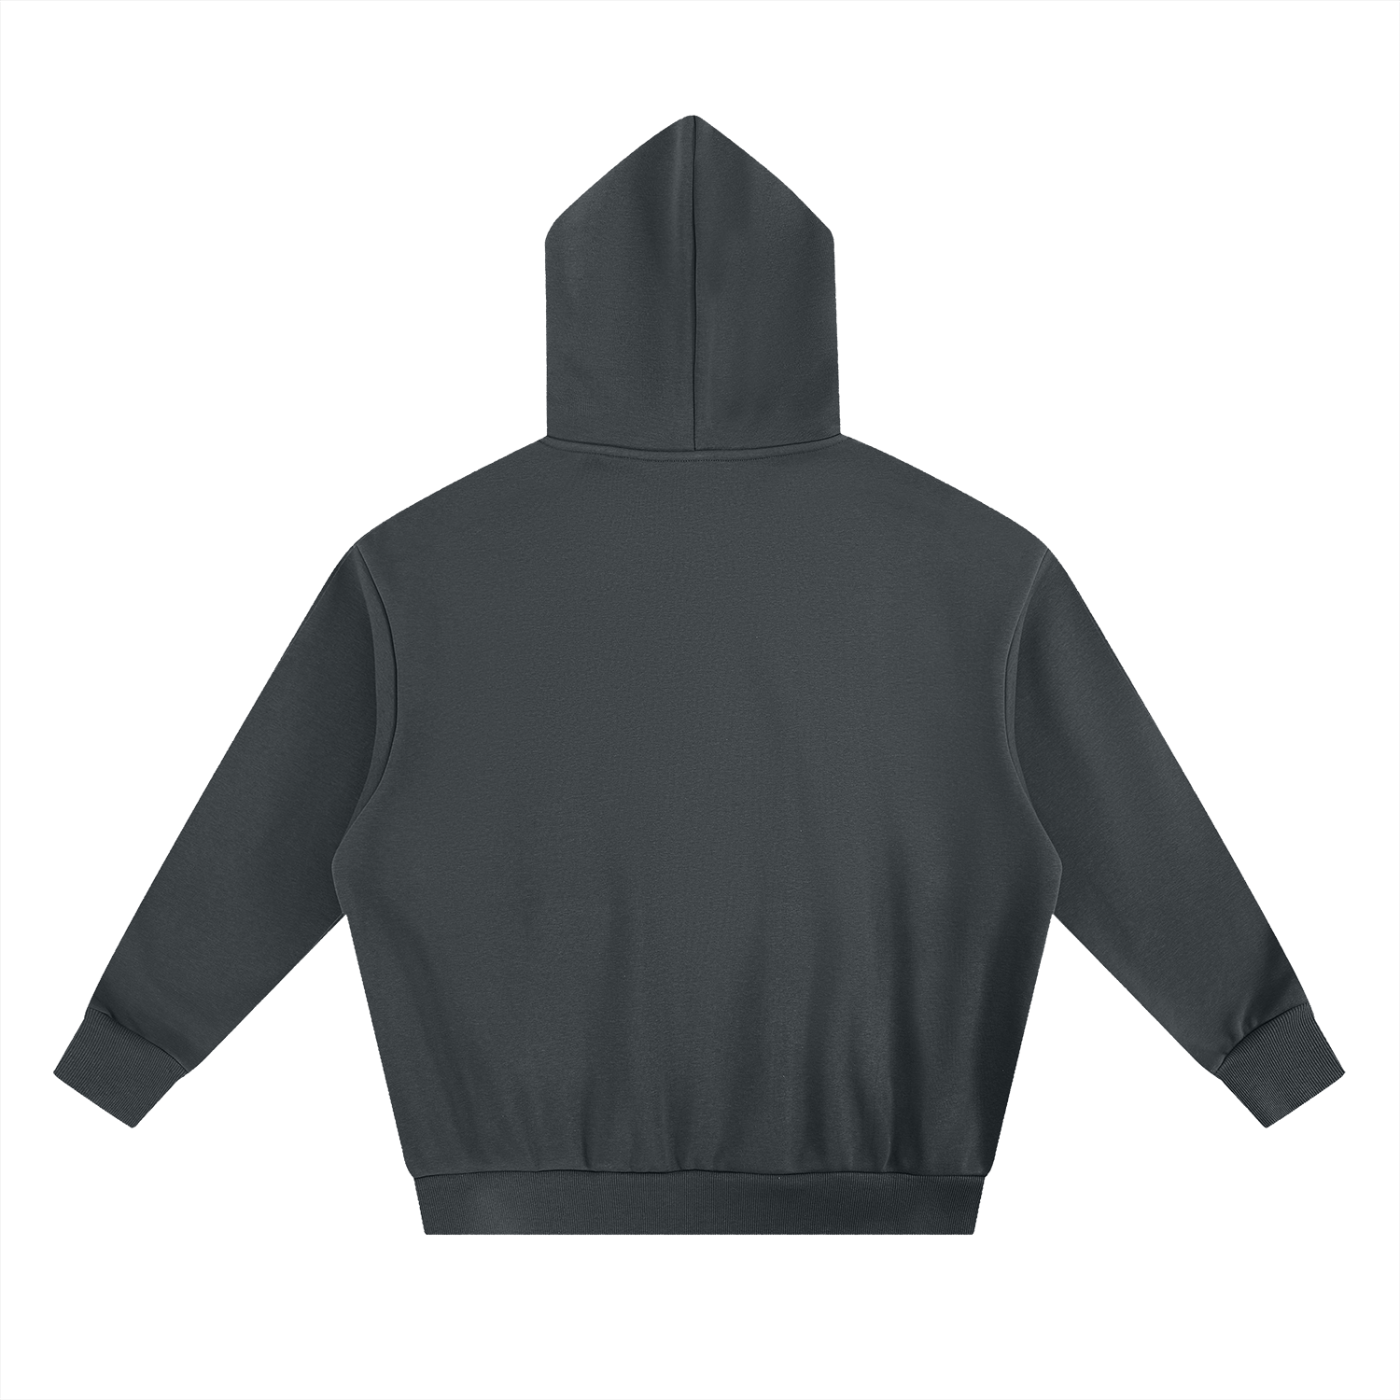
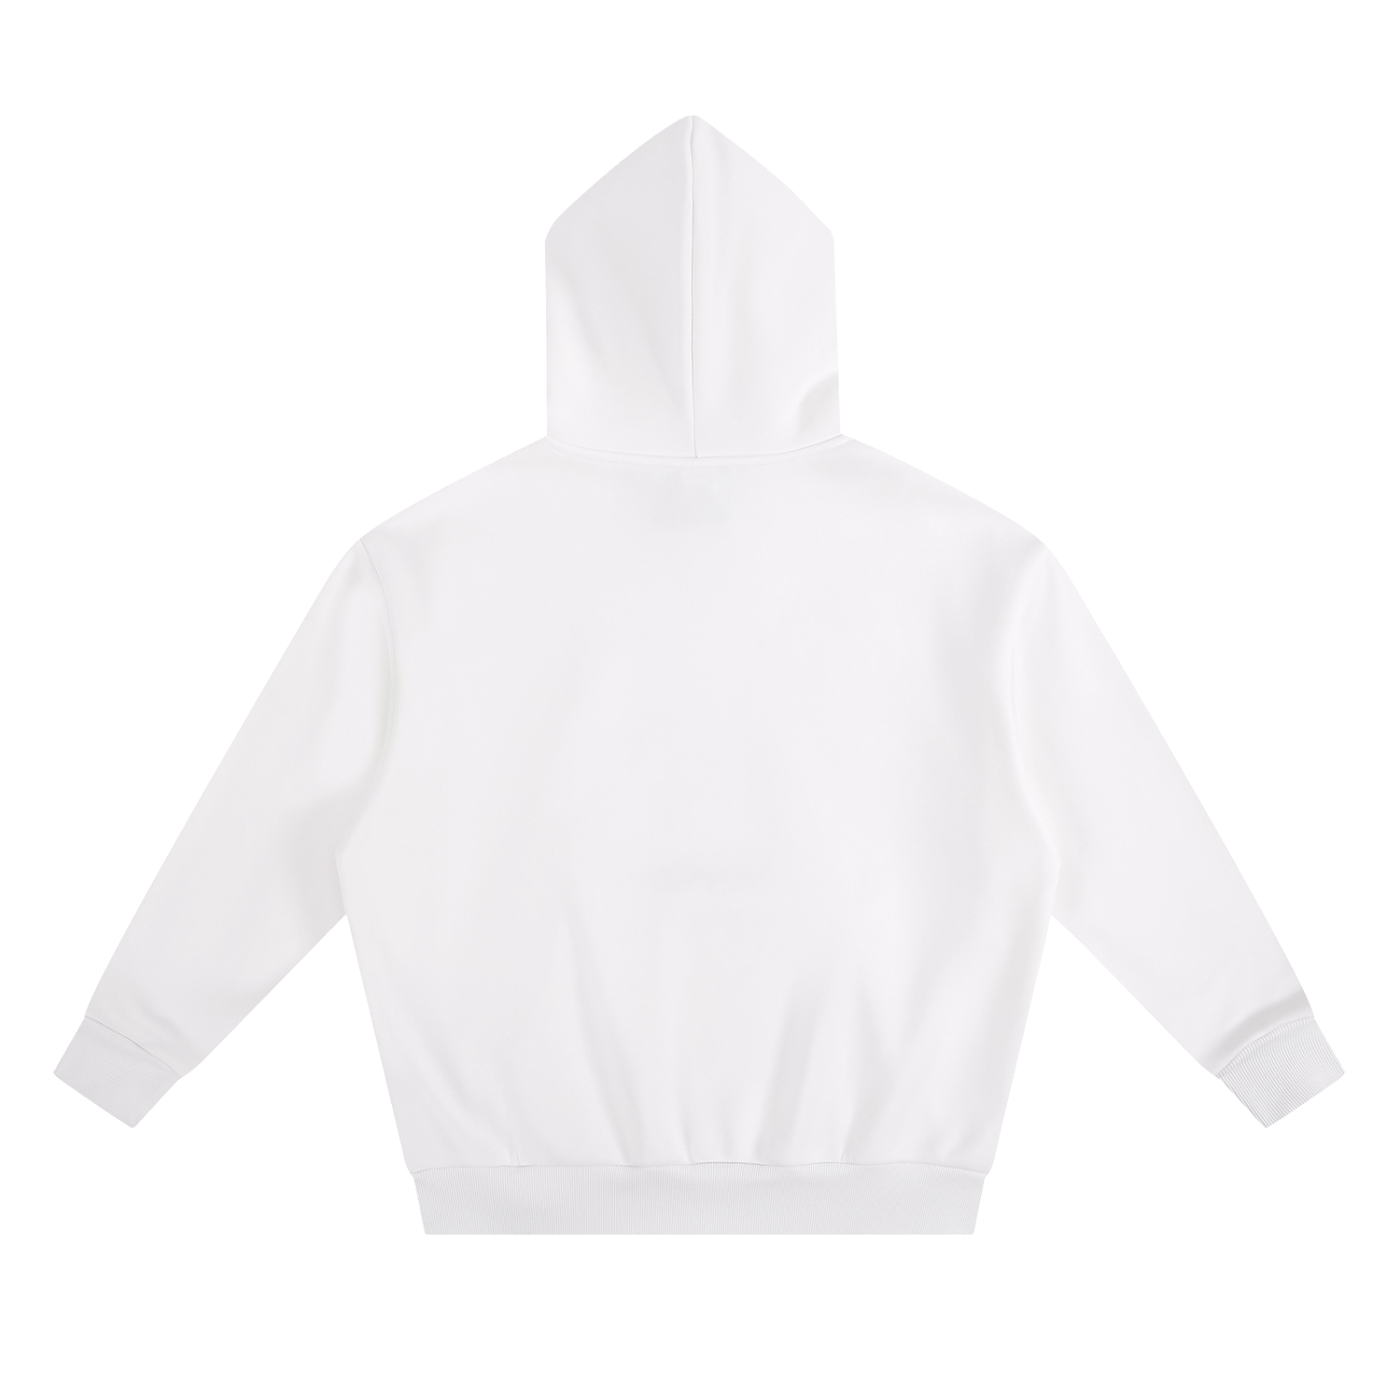
added new colors to plain hoodie

diff --git a/netlify/functions/create-checkout-session.js b/netlify/functions/create-checkout-session.js
@@ -22,6 +22,28 @@ function sanitizeMetadataValue(value, fallback) {
   return normalized.slice(0, 500);
 }
 
+function buildMetadataChunkMap(prefix, rawValue, maxChunks = 8, chunkSize = 500) {
+  const source = String(rawValue || "");
+  if (!source) return {};
+
+  const metadata = {};
+  let index = 0;
+  let chunkNumber = 1;
+
+  while (index < source.length && chunkNumber <= maxChunks) {
+    const chunk = source.slice(index, index + chunkSize);
+    metadata[`${prefix}_${chunkNumber}`] = chunk;
+    index += chunkSize;
+    chunkNumber += 1;
+  }
+
+  if (index < source.length) {
+    metadata[`${prefix}_truncated`] = "true";
+  }
+
+  return metadata;
+}
+
 exports.handler = async function handler(event) {
   if (event.httpMethod !== "POST") {
     return {
@@ -53,7 +75,9 @@ exports.handler = async function handler(event) {
         productId: sanitizeVariant(item.productId, "unknown-product"),
         productName: sanitizeVariant(item.name, "Safire Vintage Item"),
         selectedSize: sanitizeVariant(item.size, "default"),
-        selectedColor: sanitizeVariant(item.color, "default")
+        selectedColor: sanitizeVariant(item.color, "default"),
+        selectedSizeLabel: sanitizeVariant(item.sizeLabel, sanitizeVariant(item.size, "default").toUpperCase()),
+        selectedColorLabel: sanitizeVariant(item.colorLabel, sanitizeVariant(item.color, "default"))
       }));
 
     if (normalizedItems.length === 0) {
@@ -65,18 +89,21 @@ exports.handler = async function handler(event) {
     }
 
     const firstItem = normalizedItems[0];
-    const variantMap = sanitizeMetadataValue(
-      JSON.stringify(
-        normalizedItems.map((item) => ({
-          id: item.productId,
-          n: item.productName,
-          q: item.quantity,
-          s: item.selectedSize,
-          c: item.selectedColor
-        }))
-      ),
-      "[]"
-    );
+    const compactItems = normalizedItems.map((item) => ({
+      id: item.productId,
+      n: item.productName,
+      q: item.quantity,
+      s: item.selectedSizeLabel,
+      c: item.selectedColorLabel
+    }));
+
+    const variantMap = sanitizeMetadataValue(JSON.stringify(compactItems), "[]");
+    const allItemsJson = JSON.stringify(compactItems);
+    const itemNames = sanitizeMetadataValue(normalizedItems.map((item) => item.productName).join(" | "), "");
+    const itemSizes = sanitizeMetadataValue(normalizedItems.map((item) => item.selectedSizeLabel).join(" | "), "");
+    const itemColors = sanitizeMetadataValue(normalizedItems.map((item) => item.selectedColorLabel).join(" | "), "");
+
+    const itemsJsonMetadataChunks = buildMetadataChunkMap("items_json", allItemsJson);
 
     const stripeLineItems = await Promise.all(
       normalizedItems.map(async (item) => {
@@ -102,30 +129,39 @@ exports.handler = async function handler(event) {
             unit_amount: unitAmount,
             product_data: {
               name: item.productName || productName,
-              description: `Size: ${item.selectedSize.toUpperCase()}\nColor: ${item.selectedColor}`
+              description: `Size: ${item.selectedSizeLabel}\nColor: ${item.selectedColorLabel}`,
+              metadata: {
+                product_id: item.productId,
+                item_name: item.productName,
+                size: item.selectedSizeLabel,
+                color: item.selectedColorLabel,
+                color_key: item.selectedColor
+              }
             }
           }
         };
       })
     );
 
+    const sharedMetadata = {
+      product_name: firstItem.productName,
+      size: firstItem.selectedSizeLabel,
+      color: firstItem.selectedColorLabel,
+      variant_map: variantMap,
+      item_names: itemNames,
+      item_sizes: itemSizes,
+      item_colors: itemColors,
+      items_count: String(normalizedItems.length),
+      ...itemsJsonMetadataChunks
+    };
+
     const session = await stripe.checkout.sessions.create({
       mode: "payment",
       payment_method_types: ["card"],
       line_items: stripeLineItems,
-      metadata: {
-        product_name: firstItem.productName,
-        size: firstItem.selectedSize,
-        color: firstItem.selectedColor,
-        variant_map: variantMap
-      },
+      metadata: sharedMetadata,
       payment_intent_data: {
-        metadata: {
-          product_name: firstItem.productName,
-          size: firstItem.selectedSize,
-          color: firstItem.selectedColor,
-          variant_map: variantMap
-        }
+        metadata: sharedMetadata
       },
       shipping_address_collection: {
         allowed_countries: ["US"]

diff --git a/index.html b/index.html
@@ -2939,7 +2939,7 @@ const productsData = [
         stock: { S: 10, M: 10, L: 10, XL: 10 },
         colors: [
             {
-                name: "Pitch Black",
+                name: "Black",
                 hex: "#0A0A0A",
                 images: {
                     front: "images/pitchblackfrontplainhoodie.png",
@@ -2947,11 +2947,43 @@ const productsData = [
                 }
             },
             {
-                name: "Black",
-                hex: "#2B2B2B",
+                name: "Grey",
+                hex: "#7C7C7C",
                 images: {
                     front: "images/plainhoodieblackfront.png",
                     back: "images/plainhoodieblackback.png"
+                }
+            },
+            {
+                name: "White",
+                hex: "#F2F2F2",
+                images: {
+                    front: "images/plainhoodiewhitefront.png",
+                    back: "images/plainhoodiewhiteback.png"
+                }
+            },
+            {
+                name: "Oat White",
+                hex: "#D9D4C7",
+                images: {
+                    front: "images/plainhoodieoatwhitefront.png",
+                    back: "images/plainhoodieoatwhiteback.png"
+                }
+            },
+            {
+                name: "Flower Gray",
+                hex: "#B7B7B7",
+                images: {
+                    front: "images/plainhoodieflowergreyfront.png",
+                    back: "images/plainhoodieflowergreyback.png"
+                }
+            },
+            {
+                name: "Light Apricot",
+                hex: "#F4E7CF",
+                images: {
+                    front: "images/plainhoodielightapricotfront.png",
+                    back: "images/plainhoodielightapricotback.png"
                 }
             }
         ]
@@ -3041,18 +3073,9 @@ function renderProducts() {
                     <!-- Color Options -->
                     <div class="color-options">
                         ${product.colors ? (() => {
-                            const totalColors = product.colors.length;
-                            const displayedColors = product.colors.slice(0, 3);
-                            const hasMore = totalColors > 3;
-                            const moreCount = totalColors - 3;
-                            
-                            let html = displayedColors.map((color, index) => 
+                            let html = product.colors.map((color, index) => 
                                 `<div class="color-circle ${index === (product.selectedColor !== undefined ? product.selectedColor : 0) ? 'active' : ''}" style="background-color: ${color.hex}" onclick="selectColor(this, ${product.id}, ${index})" title="${color.name}"></div>`
                             ).join('');
-                            
-                            if (hasMore) {
-                                html += `<div class="color-count-badge" title="${moreCount} more colors available" onclick="event.stopPropagation();">+${moreCount}</div>`;
-                            }
                             
                             return html;
                         })() : ''}

diff --git a/safire git hub/index.html b/safire git hub/index.html
@@ -1321,6 +1321,66 @@ const productsData = [
         freeShipping: true,
         sku: "BH-SCR-001",
         stock: { S: 1, M: 0, L: 0, XL: 0 }
+    },
+    {
+        id: 2,
+        name: "Plain Hoodie - Black",
+        category: "classic",
+        price: 40.00,
+        image1: "../images/pitchblackfrontplainhoodie.png",
+        image2: "../images/pitchblackbackplainhoodie.png",
+        description: "Clean black plain hoodie for everyday wear.",
+        freeShipping: true,
+        sku: "PH-BLK-002",
+        stock: { S: 1, M: 1, L: 1, XL: 1 }
+    },
+    {
+        id: 3,
+        name: "Plain Hoodie - White",
+        category: "classic",
+        price: 40.00,
+        image1: "../images/plainhoodiewhitefront.png",
+        image2: "../images/plainhoodiewhiteback.png",
+        description: "White plain hoodie with a clean minimalist look.",
+        freeShipping: true,
+        sku: "PH-WHT-003",
+        stock: { S: 1, M: 1, L: 1, XL: 1 }
+    },
+    {
+        id: 4,
+        name: "Plain Hoodie - Oat White",
+        category: "classic",
+        price: 40.00,
+        image1: "../images/plainhoodieoatwhitefront.png",
+        image2: "../images/plainhoodieoatwhiteback.png",
+        description: "Oat white plain hoodie with a clean minimalist look.",
+        freeShipping: true,
+        sku: "PH-OWH-004",
+        stock: { S: 1, M: 1, L: 1, XL: 1 }
+    },
+    {
+        id: 5,
+        name: "Plain Hoodie - Flower Gray",
+        category: "classic",
+        price: 40.00,
+        image1: "../images/plainhoodieflowergreyfront.png",
+        image2: "../images/plainhoodieflowergreyback.png",
+        description: "Flower gray plain hoodie with a clean minimalist look.",
+        freeShipping: true,
+        sku: "PH-FGR-005",
+        stock: { S: 1, M: 1, L: 1, XL: 1 }
+    },
+    {
+        id: 6,
+        name: "Plain Hoodie - Light Apricot",
+        category: "classic",
+        price: 40.00,
+        image1: "../images/plainhoodielightapricotfront.png",
+        image2: "../images/plainhoodielightapricotback.png",
+        description: "Light apricot plain hoodie with a clean minimalist look.",
+        freeShipping: true,
+        sku: "PH-LAP-006",
+        stock: { S: 1, M: 1, L: 1, XL: 1 }
     }
 ];
 

diff --git a/js/cart.js b/js/cart.js
@@ -6,6 +6,17 @@ function normalizeCartColor(value) {
     return normalizeCartValue(value).split('/')[0].trim().replace(/\s+/g, '-');
 }
 
+function formatCartColorLabel(value) {
+    const normalized = normalizeCartColor(value);
+    if (!normalized || normalized === 'default') return 'Default';
+
+    return normalized
+        .split('-')
+        .filter(Boolean)
+        .map((part) => part.charAt(0).toUpperCase() + part.slice(1))
+        .join(' ');
+}
+
 function sanitizeCheckoutString(value, maxLength) {
     const normalized = String(value || '')
         .replace(/[\u0000-\u001F\u007F]/g, ' ')
@@ -186,6 +197,8 @@ async function checkout() {
         const selectedName = sanitizeCheckoutString(item.name || matchedProduct?.name || productId, 120);
         const selectedSize = normalizeCartValue(item.size || 'default');
         const selectedColor = normalizeCartColor(item.color || 'default');
+        const selectedSizeLabel = sanitizeCheckoutString(selectedSize.toUpperCase(), 40);
+        const selectedColorLabel = sanitizeCheckoutString(formatCartColorLabel(selectedColor), 80);
 
         return {
             productId,
@@ -193,7 +206,9 @@ async function checkout() {
             priceId: getStripePriceId(productId),
             quantity: Math.max(1, Number(item.quantity) || 1),
             size: selectedSize,
-            color: selectedColor
+            color: selectedColor,
+            sizeLabel: selectedSizeLabel,
+            colorLabel: selectedColorLabel
         };
     });
 
@@ -211,7 +226,9 @@ async function checkout() {
             priceId: checkoutItems[0].priceId,
             quantity: checkoutItems[0].quantity,
             size: checkoutItems[0].size,
-            color: checkoutItems[0].color
+            color: checkoutItems[0].color,
+            sizeLabel: checkoutItems[0].sizeLabel,
+            colorLabel: checkoutItems[0].colorLabel
         }
         : { items: checkoutItems };
 

diff --git a/js/products.js b/js/products.js
@@ -188,7 +188,7 @@ const products = [
         ],
         colorways: [
             {
-                name: "Pitch Black",
+                name: "Black",
                 hex: "#0A0A0A",
                 images: [
                     "images/pitchblackfrontplainhoodie.png",
@@ -196,11 +196,43 @@ const products = [
                 ]
             },
             {
-                name: "Black",
-                hex: "#2B2B2B",
+                name: "Grey",
+                hex: "#7C7C7C",
                 images: [
                     "images/plainhoodieblackfront.png",
                     "images/plainhoodieblackback.png"
+                ]
+            },
+            {
+                name: "White",
+                hex: "#F2F2F2",
+                images: [
+                    "images/plainhoodiewhitefront.png",
+                    "images/plainhoodiewhiteback.png"
+                ]
+            },
+            {
+                name: "Oat White",
+                hex: "#D9D4C7",
+                images: [
+                    "images/plainhoodieoatwhitefront.png",
+                    "images/plainhoodieoatwhiteback.png"
+                ]
+            },
+            {
+                name: "Flower Gray",
+                hex: "#B7B7B7",
+                images: [
+                    "images/plainhoodieflowergreyfront.png",
+                    "images/plainhoodieflowergreyback.png"
+                ]
+            },
+            {
+                name: "Light Apricot",
+                hex: "#F4E7CF",
+                images: [
+                    "images/plainhoodielightapricotfront.png",
+                    "images/plainhoodielightapricotback.png"
                 ]
             }
         ],

diff --git a/netlify/functions/stripe-webhook.js b/netlify/functions/stripe-webhook.js
@@ -83,7 +83,20 @@ exports.handler = async function handler(event) {
           productName: metadata.product_name || null,
           size: metadata.size || null,
           color: metadata.color || null,
-          variantMap: metadata.variant_map || null
+          variantMap: metadata.variant_map || null,
+          itemNames: metadata.item_names || null,
+          itemSizes: metadata.item_sizes || null,
+          itemColors: metadata.item_colors || null,
+          itemsCount: metadata.items_count || null,
+          itemsJson1: metadata.items_json_1 || null,
+          itemsJson2: metadata.items_json_2 || null,
+          itemsJson3: metadata.items_json_3 || null,
+          itemsJson4: metadata.items_json_4 || null,
+          itemsJson5: metadata.items_json_5 || null,
+          itemsJson6: metadata.items_json_6 || null,
+          itemsJson7: metadata.items_json_7 || null,
+          itemsJson8: metadata.items_json_8 || null,
+          itemsJsonTruncated: metadata.items_json_truncated || null
         },
         completedAt: stripeEvent.created
       };
